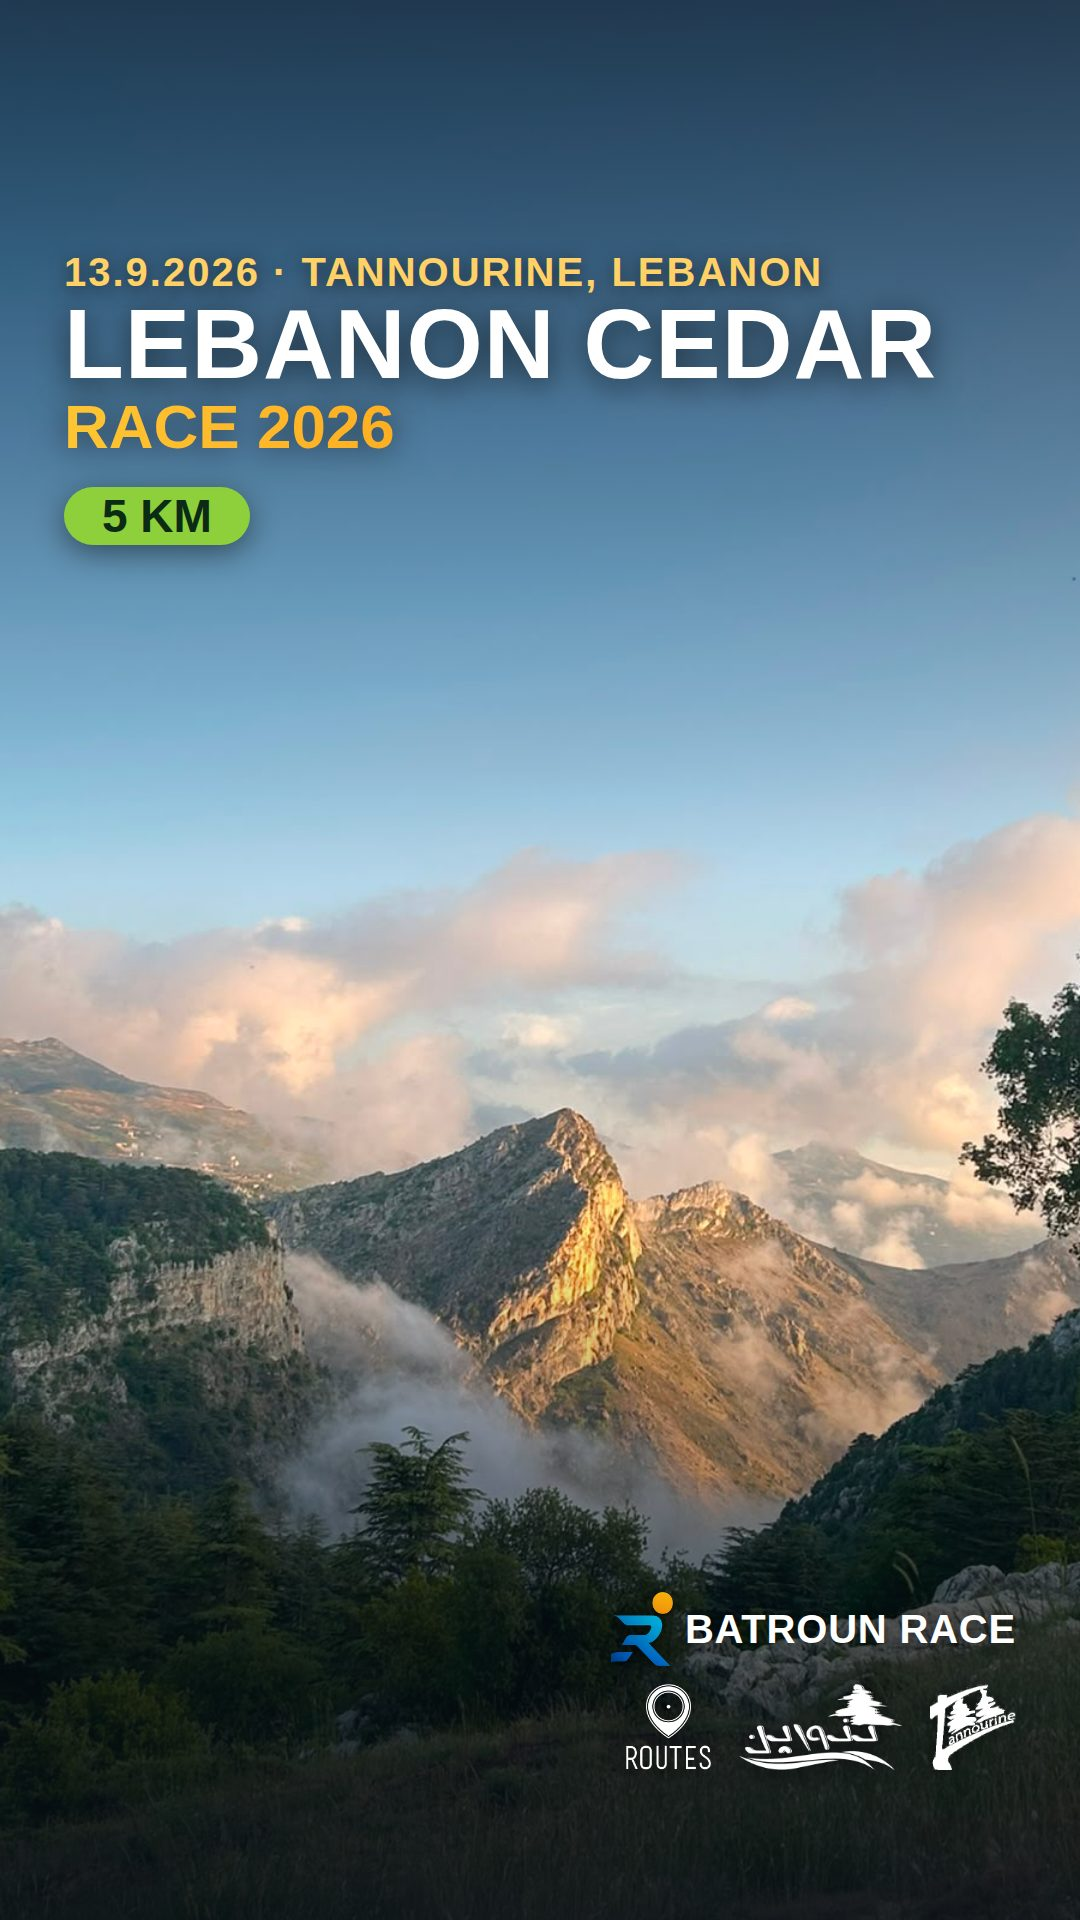
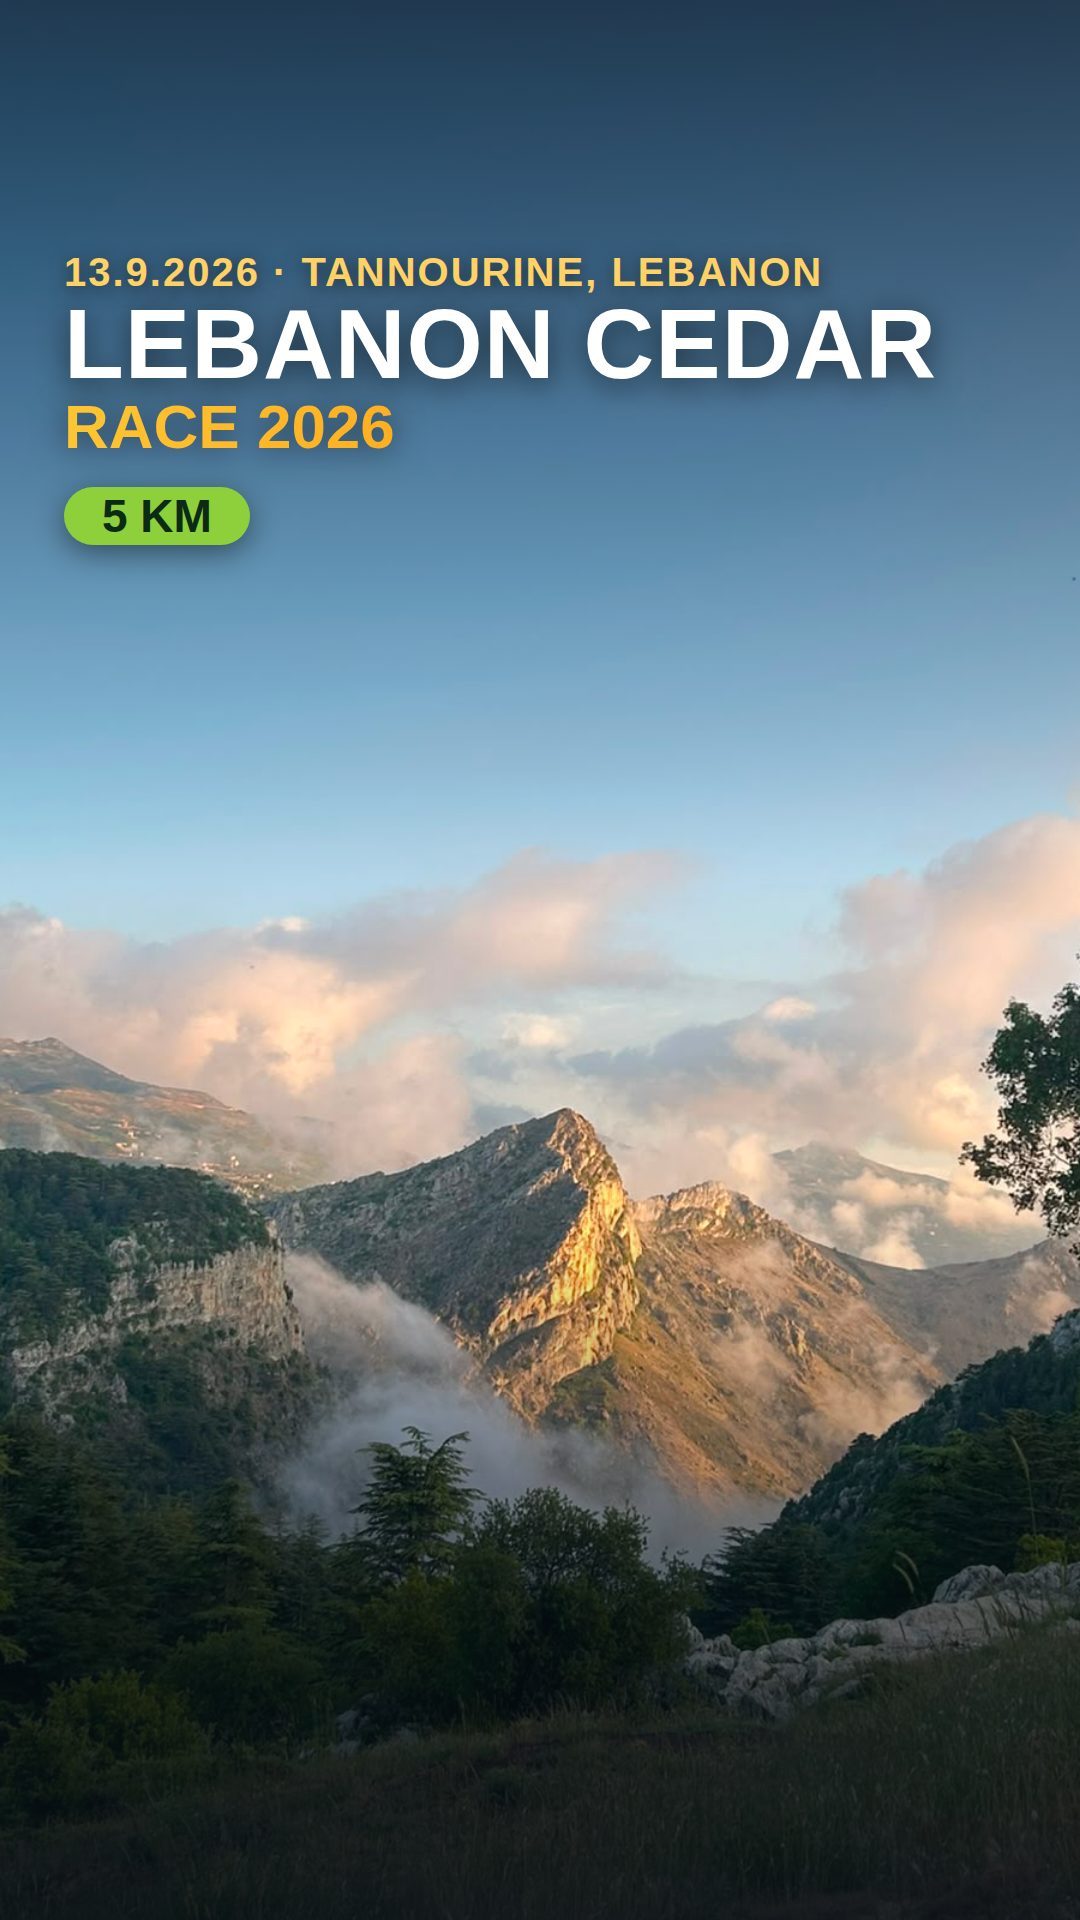
Lift the lockup out of the artwork so the crop can never cut it
The logos were painted into the banner photo, and the banner crops that photo
to fill whatever screen it lands on. On tablet portrait that crop was eating
125px of the logo row off the bottom edge; on landscape phones, 12px. The
Register button, being a real element, could only guess where the logos had
ended up.

BATROUN RACE and the three partner marks are now real elements too, sharing
one flex row with the button along the bottom of the banner. Level and
equally inset by construction rather than by arithmetic, nothing to slice
off, and the logos render sharp instead of through a JPEG. Swapping a partner
is now an edit, not a re-render.

The two banner sizes render with &brand=0 — photo only. Social posts keep the
lockup painted in: a flat image has nothing to lay elements over.

The artwork img rules had to be scoped to `picture img`: `width:100%;
height:100%;object-fit:cover` was catching the lockup's own logos and blowing
the Batroun mark up to fill the banner.

Measured at 1440x900, 1280x800, 820x1180, 380x760, 740x420 and 360x640:
centres level to the pixel, insets equal, lockup fully inside the banner on
all six, and clear of the clock.

Claude-Session: https://claude.ai/code/session_01WtCbFS8DaNpyJP2tZLxJ99

Changed region(s): [[0.55, 0.8125, 0.9472, 0.9375]]

diff --git a/index.html b/index.html
@@ -271,8 +271,8 @@ header{position:sticky;top:0;z-index:50;background:rgba(242,247,246,.85);backdro
 :root{--runway:calc(var(--banner) + var(--hold))}
 @media(max-height:520px){:root{--hold:min(30vh,140px)}}
 .promo-top .promo{position:sticky;top:64px;border-radius:0;box-shadow:none;height:var(--banner)}
-.promo-top .promo img{width:100%;height:100%;object-fit:cover;object-position:0 30%}
-@media (max-width:768px) and (orientation:portrait){.promo-top .promo img{object-position:center 30%}}
+.promo-top .promo picture img{width:100%;height:100%;object-fit:cover;object-position:0 30%}
+@media (max-width:768px) and (orientation:portrait){.promo-top .promo picture img{object-position:center 30%}}
 .page-body{position:relative;z-index:1;box-shadow:0 -18px 44px rgba(3,15,43,.28)}
 /* The page starts where the banner ends and then rides up over it, so the
    banner never leaves a bare strip under itself and the content slides on
@@ -282,22 +282,48 @@ body.has-banner .page-body{margin-top:calc(-1 * var(--banner))}
 /* the event zone reads as full screens: banner, then countdown, then the site */
 .promo-top a.promo:hover{transform:none;box-shadow:none;filter:brightness(1.05)}
 .promo-top.edit-empty .promo{border-radius:0;height:auto}
-.promo-top.edit-empty .promo img{height:auto}
+.promo-top.edit-empty .promo picture img{height:auto}
 .promo{display:block;position:relative;border-radius:16px;overflow:hidden;box-shadow:0 10px 34px rgba(3,15,43,.14);transition:transform .2s ease-out,box-shadow .2s ease-out}
 a.promo:hover{transform:translateY(-4px);box-shadow:0 16px 44px rgba(3,15,43,.22)}
-.promo img{display:block;width:100%;height:auto}
+/* the artwork only — the lockup's own logos sit inside .promo too */
+.promo picture img{display:block;width:100%;height:auto}
 .promo-label{position:absolute;top:16px;left:16px;background:var(--coral);color:#fff;font-family:var(--mono);font-size:.72rem;letter-spacing:.14em;text-transform:uppercase;padding:8px 14px;border-radius:999px;box-shadow:0 4px 14px rgba(3,15,43,.25)}
 .promo-label:empty{display:none}
-/* Starting position only. The lockup is painted into the artwork and the
-   banner crops that artwork to fill the screen, so js/cms.js measures where
-   the lockup actually landed and sits the button level with it, inset the
-   same distance from its own edge. These values are what shows until it does,
-   and the fallback when the crop hides the lockup. */
-.promo-btn{position:absolute;left:5.6%;bottom:7.5%;background:var(--coral);color:#fff;text-decoration:none;font-weight:700;font-size:clamp(.68rem,1vw,.9rem);padding:.55em 1.5em;border-radius:999px;box-shadow:0 10px 30px rgba(0,0,0,.4);transition:transform .2s ease-out,background .2s;white-space:nowrap}
+/* The bottom band of the banner. The button and the organisers' lockup used to
+   be a percentage guess against a lockup painted into the artwork — and the
+   artwork is cropped to fill the screen, so the two drifted apart and on short
+   screens the crop ate the logos entirely. Both are real elements now, in one
+   flex row: level with each other and equally inset from their own edge, on
+   every screen, with nothing to slice off. */
+.promo-foot{position:absolute;left:0;right:0;bottom:clamp(18px,3.2vh,46px);z-index:2;
+  display:flex;align-items:center;justify-content:space-between;gap:14px;
+  padding:0 clamp(16px,3.4vw,56px);pointer-events:none}
+.promo-foot > *{pointer-events:auto}
+.promo-btn{background:var(--coral);color:#fff;text-decoration:none;font-weight:700;font-size:clamp(.68rem,1vw,.9rem);padding:.55em 1.5em;border-radius:999px;box-shadow:0 10px 30px rgba(0,0,0,.4);transition:transform .2s ease-out,background .2s;white-space:nowrap}
 .promo-btn:hover,.promo-btn:focus-visible{transform:translateY(-3px);background:var(--coral-deep)}
 .promo-btn:empty{display:none}
-@media (max-width:768px){.promo-btn{left:6.5%;bottom:8.5%;font-size:.95rem;padding:.7em 1.7em}}
+@media (max-width:768px){.promo-btn{font-size:.95rem;padding:.7em 1.7em}}
 @media (prefers-reduced-motion:reduce){.promo-btn:hover{transform:none}}
+/* organisers: Batroun Race over the partner marks, all reversed to white the
+   way they are on the poster artwork */
+/* margin-left keeps it on its own side even when there is no button to push
+   against — an announcement banner with no link still reads the same */
+.promo-lockup{margin-left:auto;display:flex;flex-direction:column;align-items:flex-end;gap:clamp(6px,.9vw,13px);text-align:right}
+.promo-lockup .pl-row{display:flex;align-items:center;gap:clamp(7px,.8vw,12px)}
+.promo-lockup span{font-family:var(--display);font-weight:800;letter-spacing:.02em;color:#fff;
+  font-size:clamp(.82rem,1.7vw,1.7rem);line-height:1;text-shadow:0 2px 14px rgba(0,0,0,.7)}
+.promo-lockup .pl-mark{height:clamp(22px,2.8vw,44px);width:auto;filter:drop-shadow(0 2px 10px rgba(0,0,0,.6))}
+.promo-lockup .pl-partners{gap:clamp(12px,1.6vw,26px)}
+.promo-lockup .pl-partners img{height:clamp(28px,3.4vw,52px);width:auto;filter:drop-shadow(0 2px 12px rgba(0,0,0,.65))}
+/* landscape phones have no height to spare: the row shrinks rather than
+   climbing into the clock */
+@media(max-height:520px){
+  .promo-lockup{gap:5px}
+  .promo-lockup span{font-size:.72rem}
+  .promo-lockup .pl-mark{height:18px}
+  .promo-lockup .pl-partners img{height:22px}
+}
+.promo-sec.edit-empty .promo-foot{display:none}
 .promo-sec.edit-empty .promo{min-height:110px;border:2px dashed var(--line);box-shadow:none;background:var(--foam)}
 .promo-sec.edit-empty .promo::after{content:"Event banner — upload a poster in /admin → Photos";position:absolute;inset:0;display:flex;align-items:center;justify-content:center;font-family:var(--mono);font-size:.78rem;color:var(--text-dim);letter-spacing:.06em}
 @media (prefers-reduced-motion:reduce){a.promo:hover{transform:none}}
@@ -448,7 +474,19 @@ try{if(localStorage.getItem('br-theme')==='coastal')document.documentElement.set
         <div class="race-next" hidden></div>
         <p class="race-info"></p>
       </div>
-      <a class="promo-btn" href="https://register.batrounrace.com/">Click to register</a>
+      <!-- The bottom band: the button and the organisers' lockup are one row,
+           so they are level and equally inset by construction, on any screen. -->
+      <div class="promo-foot">
+        <a class="promo-btn" href="https://register.batrounrace.com/">Click to register</a>
+        <div class="promo-lockup">
+          <div class="pl-row"><img class="pl-mark" src="images/logo-mark.png" alt="" onerror="this.style.display='none'"><span>BATROUN RACE</span></div>
+          <div class="pl-row pl-partners">
+            <img src="images/partners/routes-white.png" alt="Routes" onerror="this.style.display='none'">
+            <img src="images/partners/tannourine-white.png" alt="Tannourine" onerror="this.style.display='none'">
+            <img src="images/partners/tannourine-emblem-white.png" alt="Tannourine" onerror="this.style.display='none'">
+          </div>
+        </div>
+      </div>
     </div>
     <div class="cd-runway" aria-hidden="true"></div>
   </section>

diff --git a/js/cms.js b/js/cms.js
@@ -193,7 +193,7 @@
       var sec = node.querySelector('.promo-sec');
       sec.classList.toggle('has-promo', !!promo.img || editing);
       sec.classList.toggle('edit-empty', editing && !promo.img);
-      var img = sec.querySelector('img');
+      var img = sec.querySelector('picture img');   // the artwork, not the lockup's logos
       if (img) {
         if (promo.img) img.setAttribute('src', promo.img);
         if (promo.alt) img.setAttribute('alt', promo.alt);
@@ -229,63 +229,7 @@
       host.appendChild(node);
     });
     revealCountdowns();
-    alignPromoBtns();
   }
-
-  /* Where the BATROUN RACE lockup lands on screen is not fixed: it is painted
-     into the artwork, and the banner crops that artwork to fill the viewport,
-     so every screen shape moves it. The Register button is a real element and
-     has to go and find it — otherwise the two drift apart, which is what a
-     percentage from the bottom edge was doing.
-     Both are then equally inset from their own side and level with each other.
-     The numbers are the lockup's own box in artwork pixels; they come straight
-     from tools/social-posts.html and must move with it. */
-  var LOCKUP = {
-    wide: { right: 96, bottom: 78, height: 64 + 16 + 76 },   // body.wide  1920x1080
-    tall: { right: 64, bottom: 150, height: 74 + 18 + 86 }   // body.tall  1080x1920
-  };
-
-  function alignPromoBtn(sec) {
-    var img = sec.querySelector('.promo img'), btn = sec.querySelector('.promo-btn');
-    if (!img || !btn || sec.classList.contains('edit-empty')) return;
-    var nw = img.naturalWidth, nh = img.naturalHeight, bw = img.clientWidth, bh = img.clientHeight;
-    if (!nw || !nh || !bw || !bh) return;
-    var a = nw >= nh ? LOCKUP.wide : LOCKUP.tall;
-    var s = Math.max(bw / nw, bh / nh);              // object-fit: cover
-    var drawnW = nw * s, drawnH = nh * s;
-    var pos = getComputedStyle(img).objectPosition.split(' ');
-    var ox = edge(pos[0], bw, drawnW), oy = edge(pos[1], bh, drawnH);
-    var lockRight = ox + (nw - a.right) * s;
-    var lockBottom = oy + (nh - a.bottom) * s;
-    var lockMid = lockBottom - a.height * s / 2;
-    // the crop can eat the lockup off the bottom edge; chasing what nobody can
-    // see would only drag the button out of the picture with it
-    if (lockBottom > bh + 2) { btn.style.left = btn.style.top = btn.style.bottom = ''; return; }
-    var top = Math.min(Math.max(lockMid - btn.offsetHeight / 2, 12), bh - btn.offsetHeight - 12);
-    btn.style.left = Math.max(bw - lockRight, 14) + 'px';
-    btn.style.top = top + 'px';
-    btn.style.bottom = 'auto';
-  }
-
-  function edge(v, box, drawn) {
-    // a percentage splits the overflow, a length is the offset from the edge
-    return /%$/.test(v) ? (box - drawn) * parseFloat(v) / 100 : (parseFloat(v) || 0);
-  }
-
-  function alignPromoBtns() {
-    var secs = [].slice.call(document.querySelectorAll('.promo-sec'));
-    secs.forEach(function (sec) {
-      alignPromoBtn(sec);
-      var img = sec.querySelector('.promo img');
-      if (img && !img.complete) img.addEventListener('load', function () { alignPromoBtn(sec); });
-    });
-  }
-
-  var alignTimer;
-  window.addEventListener('resize', function () {
-    clearTimeout(alignTimer);
-    alignTimer = setTimeout(alignPromoBtns, 120);
-  });
 
   /* The clock is the first thing the banner has to say, so it is on screen
      from the first paint — no scroll to earn it. It still fades up rather than

diff --git a/tools/social-posts.html b/tools/social-posts.html
@@ -11,8 +11,10 @@
     link   1200x630   · link previews, Facebook cover   -> images/social/
     wide   1920x1080  · the homepage banner             -> images/banners/
     tall   1080x1920  · the homepage banner on phones   -> images/banners/
-  The two banner sizes drop the call to action: the site puts a real,
-  clickable Register button over the artwork instead.
+  The two banner sizes drop the call to action, and are rendered with
+  &brand=0 so they drop the lockup too: the site puts a real, clickable
+  Register button and a real logo row over the artwork instead.
+  Add &cta=soon for the announcement wording on the social sizes.
 -->
 <link rel="preconnect" href="https://fonts.googleapis.com">
 <link rel="preconnect" href="https://fonts.gstatic.com" crossorigin>
@@ -157,6 +159,12 @@ body.tall .brand .partners img{height:86px}
 <script>
 var q = new URLSearchParams(location.search);
 document.body.className = q.get('s') || 'square';
+/* &brand=0 renders the photo without the lockup. The two homepage banners use
+   it: the site draws BATROUN RACE and the partner logos as real elements over
+   the artwork, so they cannot be sliced off by the crop that fills the screen
+   and they stay level with the Register button. A social post is a flat image
+   with nothing to lay over it, so it keeps the lockup painted in. */
+if (q.get('brand') === '0') document.querySelector('.brand').remove();
 /* Two calls to action for the same artwork: the announcement posts that run
    before registration opens, and the register posts that run after. Add
    &cta=soon for the first — the site's clock is counting to the same moment. */
